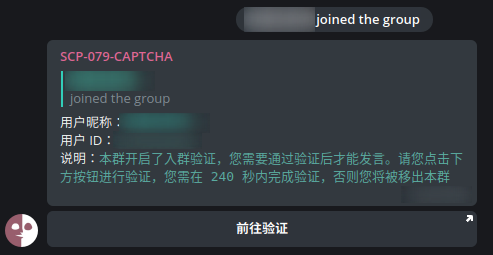
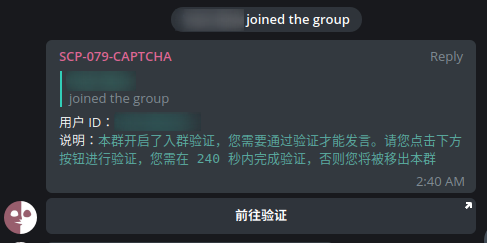
更新 CAPTCHA 使用手册

diff --git a/pages/tools/captcha/captcha-manual-zh.md b/pages/tools/captcha/captcha-manual-zh.md
@@ -29,10 +29,19 @@ title: SCP-079-CAPTCHA
 
 ### 提示部分
 
-1. 当新用户入群时，机器人将禁言用户，同时机器人将回复用户的入群消息，提供两个按钮，左侧按钮为：`我需要验证吗`，用户点击该按钮，机器人会用弹出窗口的形式回复该用户是否需要验证；右侧按钮为：`前往验证`，点击按钮会前往专用验证群组。
+#### 单个用户入群
+
+1. 机器人将禁言用户，同时机器人将回复用户的入群消息，提供一个按钮 `前往验证`，点击按钮会前往专用验证群组。
+2. 提示消息中默认以用户 ID 的形式 mention 该用户。群组可通过命令自定义该入群提示。
+
+![单用户入群时的默认提示](/images/captcha/single.png)
+
+#### 多个用户如群
+
+1. 当多个用户入群时，机器人将禁言用户，同时机器人将回复用户的入群消息，提供两个按钮，左侧按钮为：`我需要验证吗`，用户点击该按钮，机器人会用弹出窗口的形式回复该用户是否需要验证；右侧按钮为：`前往验证`，点击按钮会前往专用验证群组。
 2. 在触发验证的原始群组中，用户验证提示消息只保留最后一条，因此即使多名用户短时间入群，群内也`只有一条验证提示消息`，该条验证提示消息会显示待验证的用户数量，同时，`会以多个不可见的字符在消息内 @ 所有待验证的用户`，通常情况下每个用户都能再次得到此条消息的通知提示，防止了稍早入群的待验证用户忽视该验证提示消息。
 
-![新用户入群时的常规提示](/images/captcha/hint.png)
+![多用户入群时的常规提示](/images/captcha/hint.png)
 
 ### 验证部分
 
@@ -46,19 +55,19 @@ title: SCP-079-CAPTCHA
 - 图片形式的数学加减法运算（提供备选按钮）
 - 图片形式的汉字验证码（提供备选按钮，文字是与食品有关的名称）
 
-![举例：用户随机抽到的图片形式的数学加减法运算](/images/captcha-question.png)
+![举例：用户随机抽到的图片形式的数学加减法运算](/images/captcha/question.png)
 
 `如用户在有限时间内正确回答`，即验证通过，用户在最初触发验证的群组中将被解除禁言。同时用户将在几分钟后于专用验证群组中被移除。
 
-![验证通过后的提示](/images/captcha-succeed.png)
+![验证通过后的提示](/images/captcha/succeed.png)
 
 `如用户回答超时`，或在有限时间内根本未加入专用验证群组，将导致验证失败。如用户在专用验证群组中回答超时，该用户将在 10 秒后于专用验证群组中移除。初次超时失败将在原始群组中封禁用户，10 分钟后解封，解封后用户可再次加入原始群组触发验证，如果第二次再次超时失败，将在原始群组中永久封禁该用户。
 
-![验证超时后的提示](/images/captcha-timeout.png)
+![验证超时后的提示](/images/captcha/timeout.png)
 
 `如用户回答错误`，导致验证失败，用户将在 15 秒后在专用验证群组中被移除，错误提示中会留下建议，提醒用户在 10 分钟后可再次加入原始群组中触发验证。回答错误的同时，将在原始群组中封禁用户，10 分钟后解封，解封后用户可再次加入原始群组触发验证。尚未对该类失败的尝试次数做出限制。
 
-![验证失败后的提示](/images/captcha-wrong.png)
+![验证失败后的提示](/images/captcha/wrong.png)
 
 ### 无关人员
 
